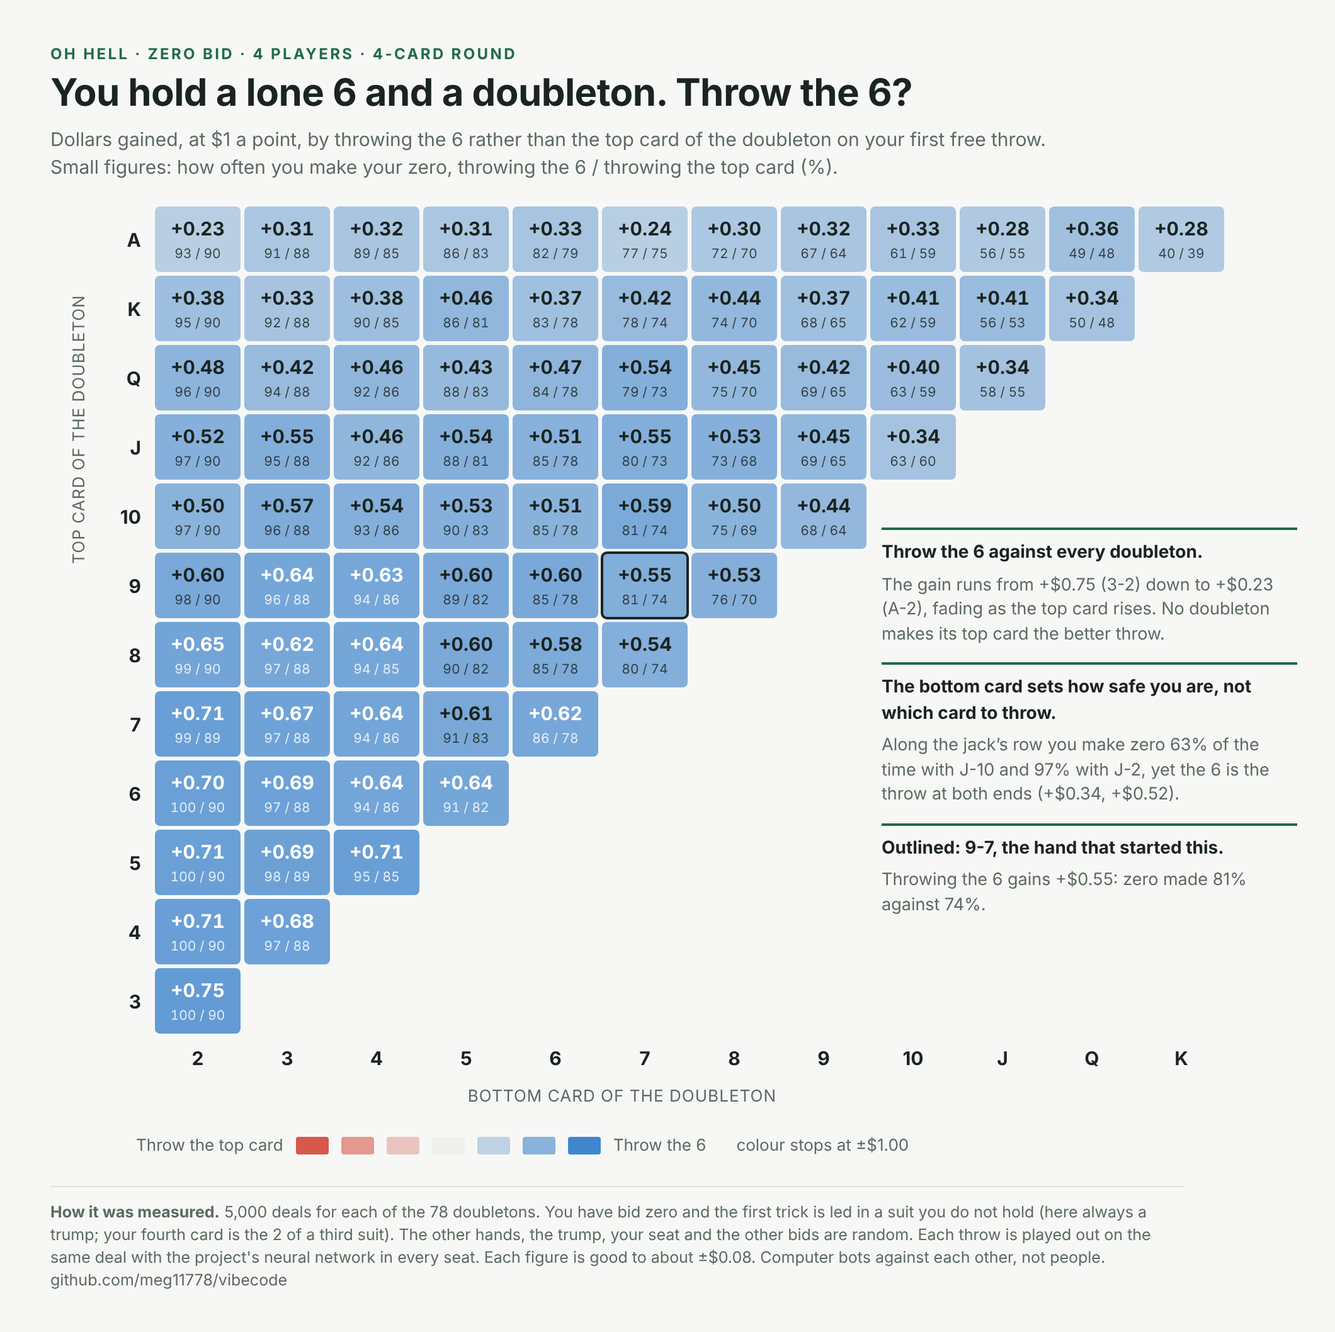
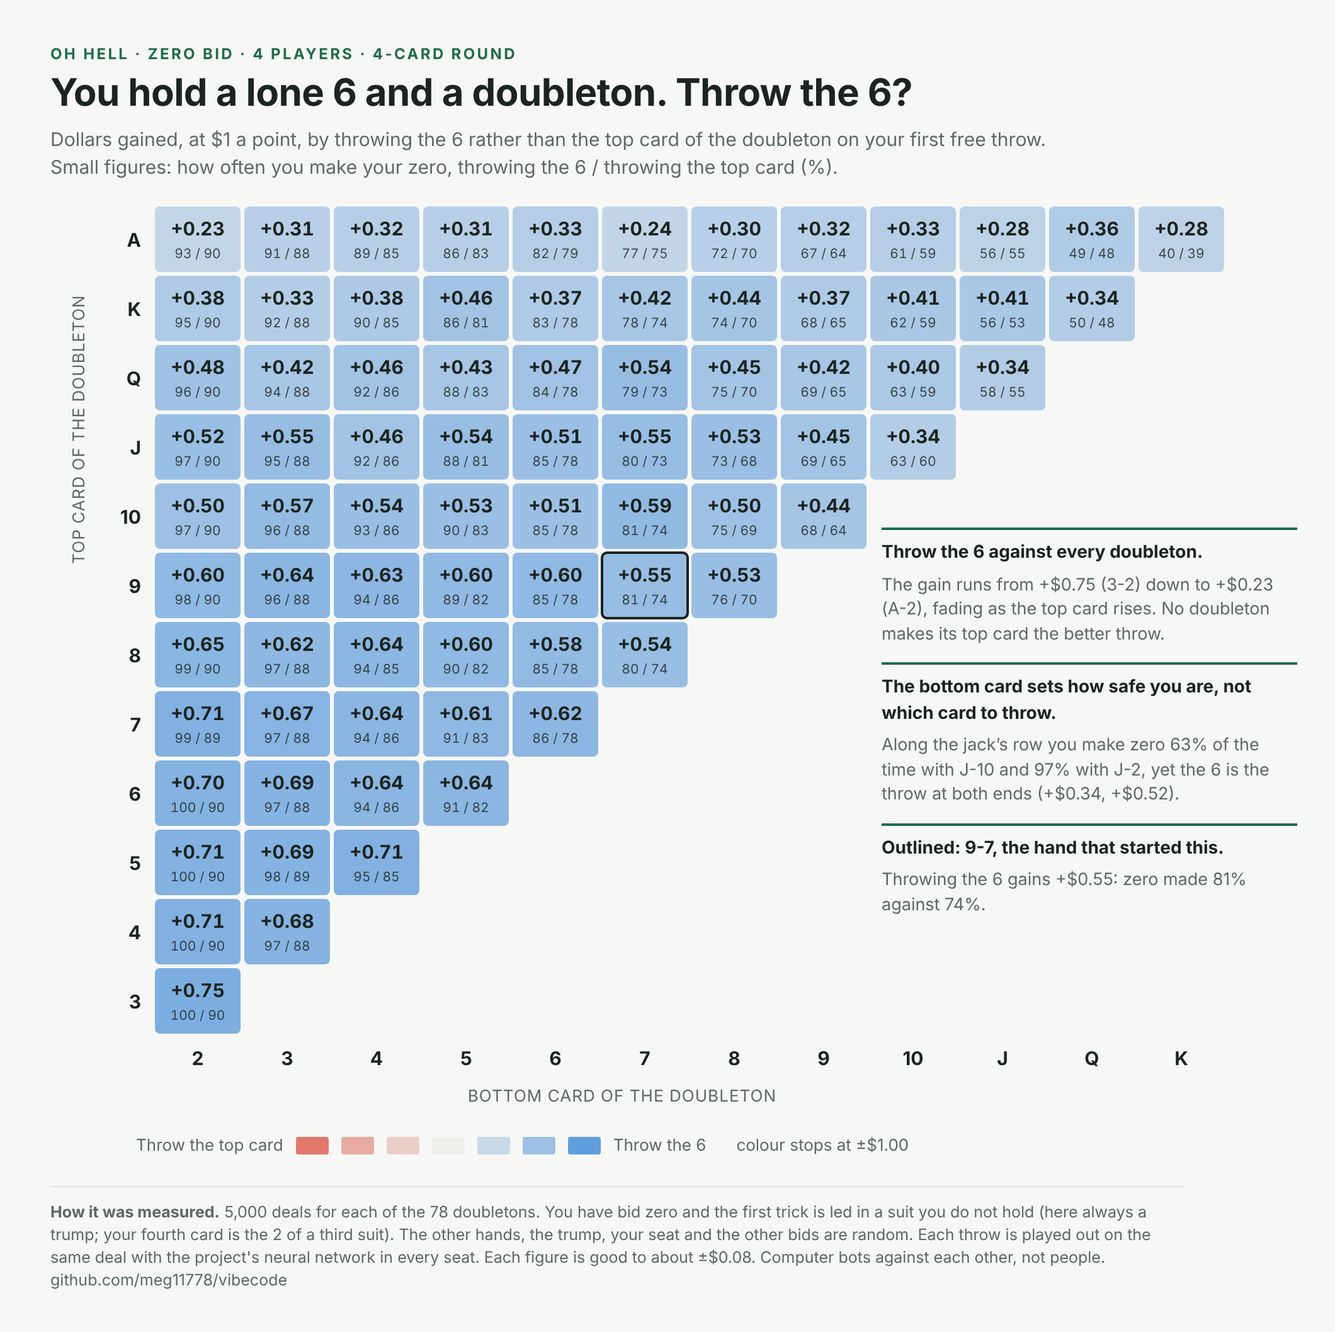
Zero-bid discard chart: one ink colour in every cell
Claude-Session: https://claude.ai/code/session_012prV8A9oynuj98C64JAgCC

diff --git a/oh-hell-source/zero-discard/lone6.html b/oh-hell-source/zero-discard/lone6.html
@@ -26,8 +26,8 @@ th.foot{font-size:15px;font-weight:650;padding-top:6px}
 <h1>You hold a lone 6 and a doubleton. Throw the 6?</h1>
 <p class="sub">Dollars gained, at $1 a point, by throwing the 6 rather than the top card of the doubleton on your first free throw. Small figures: how often you make your zero, throwing the 6 / throwing the top card (%).</p>
 <div class="grid"><div class="ylab">TOP CARD OF THE DOUBLETON</div>
-<table><tr><th class="side">A</th><td style="background:rgb(185,206,227);color:#1b2420"><b>+0.23</b><span>93 / 90</span></td><td style="background:rgb(171,198,225);color:#1b2420"><b>+0.31</b><span>91 / 88</span></td><td style="background:rgb(169,197,224);color:#1b2420"><b>+0.32</b><span>89 / 85</span></td><td style="background:rgb(170,198,225);color:#1b2420"><b>+0.31</b><span>86 / 83</span></td><td style="background:rgb(167,196,224);color:#1b2420"><b>+0.33</b><span>82 / 79</span></td><td style="background:rgb(184,206,227);color:#1b2420"><b>+0.24</b><span>77 / 75</span></td><td style="background:rgb(172,199,225);color:#1b2420"><b>+0.30</b><span>72 / 70</span></td><td style="background:rgb(169,197,224);color:#1b2420"><b>+0.32</b><span>67 / 64</span></td><td style="background:rgb(168,196,224);color:#1b2420"><b>+0.33</b><span>61 / 59</span></td><td style="background:rgb(176,201,226);color:#1b2420"><b>+0.28</b><span>56 / 55</span></td><td style="background:rgb(161,192,223);color:#1b2420"><b>+0.36</b><span>49 / 48</span></td><td style="background:rgb(177,202,226);color:#1b2420"><b>+0.28</b><span>40 / 39</span></td></tr><tr><th class="side">K</th><td style="background:rgb(158,191,223);color:#1b2420"><b>+0.38</b><span>95 / 90</span></td><td style="background:rgb(167,195,224);color:#1b2420"><b>+0.33</b><span>92 / 88</span></td><td style="background:rgb(158,190,223);color:#1b2420"><b>+0.38</b><span>90 / 85</span></td><td style="background:rgb(145,183,220);color:#1b2420"><b>+0.46</b><span>86 / 81</span></td><td style="background:rgb(160,192,223);color:#1b2420"><b>+0.37</b><span>83 / 78</span></td><td style="background:rgb(151,186,221);color:#1b2420"><b>+0.42</b><span>78 / 74</span></td><td style="background:rgb(147,184,221);color:#1b2420"><b>+0.44</b><span>74 / 70</span></td><td style="background:rgb(160,192,223);color:#1b2420"><b>+0.37</b><span>68 / 65</span></td><td style="background:rgb(154,188,222);color:#1b2420"><b>+0.41</b><span>62 / 59</span></td><td style="background:rgb(154,188,222);color:#1b2420"><b>+0.41</b><span>56 / 53</span></td><td style="background:rgb(165,195,224);color:#1b2420"><b>+0.34</b><span>50 / 48</span></td><td class="none"></td></tr><tr><th class="side">Q</th><td style="background:rgb(141,180,220);color:#1b2420"><b>+0.48</b><span>96 / 90</span></td><td style="background:rgb(151,186,221);color:#1b2420"><b>+0.42</b><span>94 / 88</span></td><td style="background:rgb(144,182,220);color:#1b2420"><b>+0.46</b><span>92 / 86</span></td><td style="background:rgb(150,186,221);color:#1b2420"><b>+0.43</b><span>88 / 83</span></td><td style="background:rgb(143,181,220);color:#1b2420"><b>+0.47</b><span>84 / 78</span></td><td style="background:rgb(132,175,218);color:#1b2420"><b>+0.54</b><span>79 / 73</span></td><td style="background:rgb(147,184,221);color:#1b2420"><b>+0.45</b><span>75 / 70</span></td><td style="background:rgb(151,186,221);color:#1b2420"><b>+0.42</b><span>69 / 65</span></td><td style="background:rgb(155,188,222);color:#1b2420"><b>+0.40</b><span>63 / 59</span></td><td style="background:rgb(164,194,224);color:#1b2420"><b>+0.34</b><span>58 / 55</span></td><td class="none"></td><td class="none"></td></tr><tr><th class="side">J</th><td style="background:rgb(134,176,219);color:#1b2420"><b>+0.52</b><span>97 / 90</span></td><td style="background:rgb(131,174,218);color:#1b2420"><b>+0.55</b><span>95 / 88</span></td><td style="background:rgb(144,182,220);color:#1b2420"><b>+0.46</b><span>92 / 86</span></td><td style="background:rgb(132,175,218);color:#1b2420"><b>+0.54</b><span>88 / 81</span></td><td style="background:rgb(136,177,219);color:#1b2420"><b>+0.51</b><span>85 / 78</span></td><td style="background:rgb(130,174,218);color:#1b2420"><b>+0.55</b><span>80 / 73</span></td><td style="background:rgb(134,176,219);color:#1b2420"><b>+0.53</b><span>73 / 68</span></td><td style="background:rgb(147,184,221);color:#1b2420"><b>+0.45</b><span>69 / 65</span></td><td style="background:rgb(165,195,224);color:#1b2420"><b>+0.34</b><span>63 / 60</span></td><td class="none"></td><td class="none"></td><td class="none"></td></tr><tr><th class="side">10</th><td style="background:rgb(138,179,219);color:#1b2420"><b>+0.50</b><span>97 / 90</span></td><td style="background:rgb(127,172,217);color:#1b2420"><b>+0.57</b><span>96 / 88</span></td><td style="background:rgb(132,175,218);color:#1b2420"><b>+0.54</b><span>93 / 86</span></td><td style="background:rgb(134,176,219);color:#1b2420"><b>+0.53</b><span>90 / 83</span></td><td style="background:rgb(137,178,219);color:#1b2420"><b>+0.51</b><span>85 / 78</span></td><td style="background:rgb(123,170,217);color:#1b2420"><b>+0.59</b><span>81 / 74</span></td><td style="background:rgb(138,179,219);color:#1b2420"><b>+0.50</b><span>75 / 69</span></td><td style="background:rgb(148,184,221);color:#1b2420"><b>+0.44</b><span>68 / 64</span></td><td class="none"></td><td class="none"></td><td class="none"></td><td class="none"></td></tr><tr><th class="side">9</th><td style="background:rgb(122,169,217);color:#1b2420"><b>+0.60</b><span>98 / 90</span></td><td style="background:rgb(116,166,216);color:#fff"><b>+0.64</b><span>96 / 88</span></td><td style="background:rgb(118,167,216);color:#fff"><b>+0.63</b><span>94 / 86</span></td><td style="background:rgb(122,169,217);color:#1b2420"><b>+0.60</b><span>89 / 82</span></td><td style="background:rgb(122,169,217);color:#1b2420"><b>+0.60</b><span>85 / 78</span></td><td style="background:rgb(130,174,218);color:#1b2420" class="mark"><b>+0.55</b><span>81 / 74</span></td><td style="background:rgb(133,175,218);color:#1b2420"><b>+0.53</b><span>76 / 70</span></td><td class="none"></td><td class="none"></td><td class="none"></td><td class="none"></td><td class="none"></td></tr><tr><th class="side">8</th><td style="background:rgb(114,164,215);color:#fff"><b>+0.65</b><span>99 / 90</span></td><td style="background:rgb(119,167,216);color:#fff"><b>+0.62</b><span>97 / 88</span></td><td style="background:rgb(117,166,216);color:#fff"><b>+0.64</b><span>94 / 85</span></td><td style="background:rgb(122,169,217);color:#1b2420"><b>+0.60</b><span>90 / 82</span></td><td style="background:rgb(125,171,217);color:#1b2420"><b>+0.58</b><span>85 / 78</span></td><td style="background:rgb(132,175,218);color:#1b2420"><b>+0.54</b><span>80 / 74</span></td><td class="none"></td><td class="none"></td><td class="none"></td><td class="none"></td><td class="none"></td><td class="none"></td></tr><tr><th class="side">7</th><td style="background:rgb(105,159,214);color:#fff"><b>+0.71</b><span>99 / 89</span></td><td style="background:rgb(111,163,215);color:#fff"><b>+0.67</b><span>97 / 88</span></td><td style="background:rgb(116,165,216);color:#fff"><b>+0.64</b><span>94 / 86</span></td><td style="background:rgb(121,168,216);color:#1b2420"><b>+0.61</b><span>91 / 83</span></td><td style="background:rgb(119,167,216);color:#fff"><b>+0.62</b><span>86 / 78</span></td><td class="none"></td><td class="none"></td><td class="none"></td><td class="none"></td><td class="none"></td><td class="none"></td><td class="none"></td></tr><tr><th class="side">6</th><td style="background:rgb(107,160,214);color:#fff"><b>+0.70</b><span>100 / 90</span></td><td style="background:rgb(109,161,215);color:#fff"><b>+0.69</b><span>97 / 88</span></td><td style="background:rgb(116,165,216);color:#fff"><b>+0.64</b><span>94 / 86</span></td><td style="background:rgb(116,166,216);color:#fff"><b>+0.64</b><span>91 / 82</span></td><td class="none"></td><td class="none"></td><td class="none"></td><td class="none"></td><td class="none"></td><td class="none"></td><td class="none"></td><td class="none"></td></tr><tr><th class="side">5</th><td style="background:rgb(106,160,214);color:#fff"><b>+0.71</b><span>100 / 90</span></td><td style="background:rgb(109,161,214);color:#fff"><b>+0.69</b><span>98 / 89</span></td><td style="background:rgb(105,159,214);color:#fff"><b>+0.71</b><span>95 / 85</span></td><td class="none"></td><td class="none"></td><td class="none"></td><td class="none"></td><td class="none"></td><td class="none"></td><td class="none"></td><td class="none"></td><td class="none"></td></tr><tr><th class="side">4</th><td style="background:rgb(105,159,214);color:#fff"><b>+0.71</b><span>100 / 90</span></td><td style="background:rgb(109,161,215);color:#fff"><b>+0.68</b><span>97 / 88</span></td><td class="none"></td><td class="none"></td><td class="none"></td><td class="none"></td><td class="none"></td><td class="none"></td><td class="none"></td><td class="none"></td><td class="none"></td><td class="none"></td></tr><tr><th class="side">3</th><td style="background:rgb(99,155,213);color:#fff"><b>+0.75</b><span>100 / 90</span></td><td class="none"></td><td class="none"></td><td class="none"></td><td class="none"></td><td class="none"></td><td class="none"></td><td class="none"></td><td class="none"></td><td class="none"></td><td class="none"></td><td class="none"></td></tr><tr><th></th><th class="foot">2</th><th class="foot">3</th><th class="foot">4</th><th class="foot">5</th><th class="foot">6</th><th class="foot">7</th><th class="foot">8</th><th class="foot">9</th><th class="foot">10</th><th class="foot">J</th><th class="foot">Q</th><th class="foot">K</th></tr></table><div class="xlab">BOTTOM CARD OF THE DOUBLETON</div>
+<table><tr><th class="side">A</th><td style="background:rgb(195,214,232);color:#1b2420"><b>+0.23</b><span>93 / 90</span></td><td style="background:rgb(184,207,231);color:#1b2420"><b>+0.31</b><span>91 / 88</span></td><td style="background:rgb(182,207,230);color:#1b2420"><b>+0.32</b><span>89 / 85</span></td><td style="background:rgb(183,207,230);color:#1b2420"><b>+0.31</b><span>86 / 83</span></td><td style="background:rgb(181,206,230);color:#1b2420"><b>+0.33</b><span>82 / 79</span></td><td style="background:rgb(194,213,232);color:#1b2420"><b>+0.24</b><span>77 / 75</span></td><td style="background:rgb(184,208,231);color:#1b2420"><b>+0.30</b><span>72 / 70</span></td><td style="background:rgb(182,207,230);color:#1b2420"><b>+0.32</b><span>67 / 64</span></td><td style="background:rgb(181,206,230);color:#1b2420"><b>+0.33</b><span>61 / 59</span></td><td style="background:rgb(188,210,231);color:#1b2420"><b>+0.28</b><span>56 / 55</span></td><td style="background:rgb(176,203,230);color:#1b2420"><b>+0.36</b><span>49 / 48</span></td><td style="background:rgb(189,210,231);color:#1b2420"><b>+0.28</b><span>40 / 39</span></td></tr><tr><th class="side">K</th><td style="background:rgb(174,202,230);color:#1b2420"><b>+0.38</b><span>95 / 90</span></td><td style="background:rgb(180,205,230);color:#1b2420"><b>+0.33</b><span>92 / 88</span></td><td style="background:rgb(173,201,229);color:#1b2420"><b>+0.38</b><span>90 / 85</span></td><td style="background:rgb(163,195,228);color:#1b2420"><b>+0.46</b><span>86 / 81</span></td><td style="background:rgb(175,202,230);color:#1b2420"><b>+0.37</b><span>83 / 78</span></td><td style="background:rgb(168,198,229);color:#1b2420"><b>+0.42</b><span>78 / 74</span></td><td style="background:rgb(165,197,229);color:#1b2420"><b>+0.44</b><span>74 / 70</span></td><td style="background:rgb(175,202,230);color:#1b2420"><b>+0.37</b><span>68 / 65</span></td><td style="background:rgb(170,200,229);color:#1b2420"><b>+0.41</b><span>62 / 59</span></td><td style="background:rgb(170,200,229);color:#1b2420"><b>+0.41</b><span>56 / 53</span></td><td style="background:rgb(179,205,230);color:#1b2420"><b>+0.34</b><span>50 / 48</span></td><td class="none"></td></tr><tr><th class="side">Q</th><td style="background:rgb(159,194,228);color:#1b2420"><b>+0.48</b><span>96 / 90</span></td><td style="background:rgb(168,198,229);color:#1b2420"><b>+0.42</b><span>94 / 88</span></td><td style="background:rgb(162,195,228);color:#1b2420"><b>+0.46</b><span>92 / 86</span></td><td style="background:rgb(167,198,229);color:#1b2420"><b>+0.43</b><span>88 / 83</span></td><td style="background:rgb(161,194,228);color:#1b2420"><b>+0.47</b><span>84 / 78</span></td><td style="background:rgb(152,189,227);color:#1b2420"><b>+0.54</b><span>79 / 73</span></td><td style="background:rgb(164,196,229);color:#1b2420"><b>+0.45</b><span>75 / 70</span></td><td style="background:rgb(168,198,229);color:#1b2420"><b>+0.42</b><span>69 / 65</span></td><td style="background:rgb(171,200,229);color:#1b2420"><b>+0.40</b><span>63 / 59</span></td><td style="background:rgb(179,204,230);color:#1b2420"><b>+0.34</b><span>58 / 55</span></td><td class="none"></td><td class="none"></td></tr><tr><th class="side">J</th><td style="background:rgb(154,191,228);color:#1b2420"><b>+0.52</b><span>97 / 90</span></td><td style="background:rgb(151,189,227);color:#1b2420"><b>+0.55</b><span>95 / 88</span></td><td style="background:rgb(162,195,228);color:#1b2420"><b>+0.46</b><span>92 / 86</span></td><td style="background:rgb(152,190,227);color:#1b2420"><b>+0.54</b><span>88 / 81</span></td><td style="background:rgb(155,191,228);color:#1b2420"><b>+0.51</b><span>85 / 78</span></td><td style="background:rgb(151,189,227);color:#1b2420"><b>+0.55</b><span>80 / 73</span></td><td style="background:rgb(154,190,228);color:#1b2420"><b>+0.53</b><span>73 / 68</span></td><td style="background:rgb(164,196,229);color:#1b2420"><b>+0.45</b><span>69 / 65</span></td><td style="background:rgb(179,205,230);color:#1b2420"><b>+0.34</b><span>63 / 60</span></td><td class="none"></td><td class="none"></td><td class="none"></td></tr><tr><th class="side">10</th><td style="background:rgb(157,192,228);color:#1b2420"><b>+0.50</b><span>97 / 90</span></td><td style="background:rgb(148,187,227);color:#1b2420"><b>+0.57</b><span>96 / 88</span></td><td style="background:rgb(153,190,227);color:#1b2420"><b>+0.54</b><span>93 / 86</span></td><td style="background:rgb(154,190,228);color:#1b2420"><b>+0.53</b><span>90 / 83</span></td><td style="background:rgb(156,192,228);color:#1b2420"><b>+0.51</b><span>85 / 78</span></td><td style="background:rgb(145,186,227);color:#1b2420"><b>+0.59</b><span>81 / 74</span></td><td style="background:rgb(157,193,228);color:#1b2420"><b>+0.50</b><span>75 / 69</span></td><td style="background:rgb(165,197,229);color:#1b2420"><b>+0.44</b><span>68 / 64</span></td><td class="none"></td><td class="none"></td><td class="none"></td><td class="none"></td></tr><tr><th class="side">9</th><td style="background:rgb(144,185,227);color:#1b2420"><b>+0.60</b><span>98 / 90</span></td><td style="background:rgb(139,182,226);color:#1b2420"><b>+0.64</b><span>96 / 88</span></td><td style="background:rgb(141,183,226);color:#1b2420"><b>+0.63</b><span>94 / 86</span></td><td style="background:rgb(144,185,227);color:#1b2420"><b>+0.60</b><span>89 / 82</span></td><td style="background:rgb(144,185,227);color:#1b2420"><b>+0.60</b><span>85 / 78</span></td><td style="background:rgb(151,189,227);color:#1b2420" class="mark"><b>+0.55</b><span>81 / 74</span></td><td style="background:rgb(153,190,228);color:#1b2420"><b>+0.53</b><span>76 / 70</span></td><td class="none"></td><td class="none"></td><td class="none"></td><td class="none"></td><td class="none"></td></tr><tr><th class="side">8</th><td style="background:rgb(138,182,226);color:#1b2420"><b>+0.65</b><span>99 / 90</span></td><td style="background:rgb(142,184,226);color:#1b2420"><b>+0.62</b><span>97 / 88</span></td><td style="background:rgb(140,183,226);color:#1b2420"><b>+0.64</b><span>94 / 85</span></td><td style="background:rgb(144,185,227);color:#1b2420"><b>+0.60</b><span>90 / 82</span></td><td style="background:rgb(146,186,227);color:#1b2420"><b>+0.58</b><span>85 / 78</span></td><td style="background:rgb(152,190,227);color:#1b2420"><b>+0.54</b><span>80 / 74</span></td><td class="none"></td><td class="none"></td><td class="none"></td><td class="none"></td><td class="none"></td><td class="none"></td></tr><tr><th class="side">7</th><td style="background:rgb(130,177,225);color:#1b2420"><b>+0.71</b><span>99 / 89</span></td><td style="background:rgb(135,180,226);color:#1b2420"><b>+0.67</b><span>97 / 88</span></td><td style="background:rgb(139,182,226);color:#1b2420"><b>+0.64</b><span>94 / 86</span></td><td style="background:rgb(143,184,227);color:#1b2420"><b>+0.61</b><span>91 / 83</span></td><td style="background:rgb(141,183,226);color:#1b2420"><b>+0.62</b><span>86 / 78</span></td><td class="none"></td><td class="none"></td><td class="none"></td><td class="none"></td><td class="none"></td><td class="none"></td><td class="none"></td></tr><tr><th class="side">6</th><td style="background:rgb(132,178,225);color:#1b2420"><b>+0.70</b><span>100 / 90</span></td><td style="background:rgb(133,179,226);color:#1b2420"><b>+0.69</b><span>97 / 88</span></td><td style="background:rgb(139,182,226);color:#1b2420"><b>+0.64</b><span>94 / 86</span></td><td style="background:rgb(139,182,226);color:#1b2420"><b>+0.64</b><span>91 / 82</span></td><td class="none"></td><td class="none"></td><td class="none"></td><td class="none"></td><td class="none"></td><td class="none"></td><td class="none"></td><td class="none"></td></tr><tr><th class="side">5</th><td style="background:rgb(131,178,225);color:#1b2420"><b>+0.71</b><span>100 / 90</span></td><td style="background:rgb(133,179,226);color:#1b2420"><b>+0.69</b><span>98 / 89</span></td><td style="background:rgb(130,177,225);color:#1b2420"><b>+0.71</b><span>95 / 85</span></td><td class="none"></td><td class="none"></td><td class="none"></td><td class="none"></td><td class="none"></td><td class="none"></td><td class="none"></td><td class="none"></td><td class="none"></td></tr><tr><th class="side">4</th><td style="background:rgb(130,177,225);color:#1b2420"><b>+0.71</b><span>100 / 90</span></td><td style="background:rgb(134,179,226);color:#1b2420"><b>+0.68</b><span>97 / 88</span></td><td class="none"></td><td class="none"></td><td class="none"></td><td class="none"></td><td class="none"></td><td class="none"></td><td class="none"></td><td class="none"></td><td class="none"></td><td class="none"></td></tr><tr><th class="side">3</th><td style="background:rgb(125,174,225);color:#1b2420"><b>+0.75</b><span>100 / 90</span></td><td class="none"></td><td class="none"></td><td class="none"></td><td class="none"></td><td class="none"></td><td class="none"></td><td class="none"></td><td class="none"></td><td class="none"></td><td class="none"></td><td class="none"></td></tr><tr><th></th><th class="foot">2</th><th class="foot">3</th><th class="foot">4</th><th class="foot">5</th><th class="foot">6</th><th class="foot">7</th><th class="foot">8</th><th class="foot">9</th><th class="foot">10</th><th class="foot">J</th><th class="foot">Q</th><th class="foot">K</th></tr></table><div class="xlab">BOTTOM CARD OF THE DOUBLETON</div>
 <div class="read"><h3>Throw the 6 against every doubleton.</h3><p>The gain runs from +$0.75 (3-2) down to +$0.23 (A-2), fading as the top card rises. No doubleton makes its top card the better throw.</p><h3>The bottom card sets how safe you are, not which card to throw.</h3><p>Along the jack’s row you make zero 63% of the time with J-10 and 97% with J-2, yet the 6 is the throw at both ends (+$0.34, +$0.52).</p><h3>Outlined: 9-7, the hand that started this.</h3><p>Throwing the 6 gains +$0.55: zero made 81% against 74%.</p></div></div>
-<div class="legend"><span>Throw the top card</span><i style="background:rgb(217,88,76)"></i><i style="background:rgb(227,152,144)"></i><i style="background:rgb(234,197,192)"></i><i style="background:rgb(240,239,236)"></i><i style="background:rgb(191,210,228)"></i><i style="background:rgb(138,179,219)"></i><i style="background:rgb(63,134,207)"></i><span>Throw the 6</span><span style="margin-left:14px">colour stops at ±$1.00</span></div>
+<div class="legend"><span>Throw the top card</span><i style="background:rgb(226,120,108)"></i><i style="background:rgb(232,171,162)"></i><i style="background:rgb(236,206,201)"></i><i style="background:rgb(240,239,236)"></i><i style="background:rgb(200,217,232)"></i><i style="background:rgb(157,192,228)"></i><i style="background:rgb(96,158,222)"></i><span>Throw the 6</span><span style="margin-left:14px">colour stops at ±$1.00</span></div>
 <p class="note"><b>How it was measured.</b> 5,000 deals for each of the 78 doubletons. You have bid zero and the first trick is led in a suit you do not hold (here always a trump; your fourth card is the 2 of a third suit). The other hands, the trump, your seat and the other bids are random. Each throw is played out on the same deal with the project's neural network in every seat. Each figure is good to about ±$0.08. Computer bots against each other, not people. github.com/meg11778/vibecode</p>
 </div></body></html>

diff --git a/oh-hell-source/zero-discard/chart6.js b/oh-hell-source/zero-discard/chart6.js
@@ -3,12 +3,12 @@
 const fs = require('fs'), R = ['', '', '2', '3', '4', '5', '6', '7', '8', '9', '10', 'J', 'Q', 'K', 'A'], cell = {};
 for (const f of process.argv.slice(2)) for (const l of fs.readFileSync(f, 'utf8').trim().split('\n')) { const r = JSON.parse(l), k = r.h + '-' + r.l, c = cell[k] = cell[k] || { k: 0, d: 0, d2: 0, ms: 0, mh: 0 }; c.k += r.k; c.d += r.d; c.d2 += r.d2; c.ms += r.made[0]; c.mh += r.made[1]; var P = r.P, n = r.n, s = r.s; }
 const val = (h, l) => { const c = cell[h + '-' + l]; if (!c) return null; const d = c.d / c.k; return { d, ci: 1.96 * Math.sqrt((c.d2 / c.k - d * d) / c.k), ms: 100 * c.ms / c.k, mh: 100 * c.mh / c.k, k: c.k }; };
-const mix = (a, b, t) => a.map((x, i) => Math.round(x + (b[i] - x) * t)), POS = [63, 134, 207], NEG = [217, 88, 76], MID = [240, 239, 236];
+const mix = (a, b, t) => a.map((x, i) => Math.round(x + (b[i] - x) * t)), POS = [96, 158, 222], NEG = [226, 120, 108], MID = [240, 239, 236];
 const col = d => { const t = Math.min(1, Math.abs(d) / 1.0); return 'rgb(' + mix(MID, d >= 0 ? POS : NEG, Math.pow(t, 0.8)).join(',') + ')'; };
 let maxCi = 0, deals = 0, rows = '';
 for (let h = 14; h >= 3; h--) { rows += '<tr><th class="side">' + R[h] + '</th>';
   for (let l = 2; l <= 13; l++) { const v = l < h ? val(h, l) : null; if (!v) { rows += '<td class="none"></td>'; continue; } maxCi = Math.max(maxCi, v.ci); deals = v.k;
-    const txt = (v.d >= 0.005 ? '+' : v.d <= -0.005 ? '−' : '') + Math.abs(v.d).toFixed(2), dark = Math.abs(v.d) > 0.62;
+    const txt = (v.d >= 0.005 ? '+' : v.d <= -0.005 ? '−' : '') + Math.abs(v.d).toFixed(2), dark = false;      // one ink for every cell: a change of ink read as a second signal
     rows += '<td style="background:' + col(v.d) + ';color:' + (dark ? '#fff' : '#1b2420') + '"' + (h === 9 && l === 7 ? ' class="mark"' : '') + '><b>' + txt + '</b><span>' + v.ms.toFixed(0) + ' / ' + v.mh.toFixed(0) + '</span></td>'; }
   rows += '</tr>'; }
 const foot = '<tr><th></th>' + [2,3,4,5,6,7,8,9,10,11,12,13].map(l => '<th class="foot">' + R[l] + '</th>').join('') + '</tr>';
